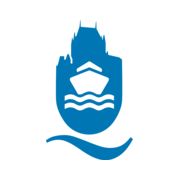
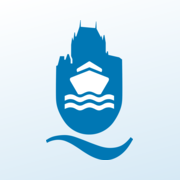
Update OG:image

diff --git a/app/app.vue b/app/app.vue
@@ -1,8 +1,10 @@
 <script setup lang="ts">
 const { t } = useI18n()
 
-const SITE_URL = 'https://mrleblanc101.github.io/maison-du-marin-quebec'
-const OG_IMAGE = `${SITE_URL}/images/og-image.jpg`
+const SITE_URL = import.meta.dev
+    ? useRequestURL().origin
+    : 'https://mrleblanc101.github.io/maison-du-marin-quebec'
+const OG_IMAGE = `${SITE_URL}/images/og-logo.jpg`
 
 // Auto-generated <html lang>, canonical link, and hreflang alternates for
 // every configured locale (fr at `/`, en at `/en`, per i18n.baseUrl above).
@@ -18,7 +20,8 @@ useSeoMeta({
     ogSiteName: () => t('seo.orgName'),
     ogImage: OG_IMAGE,
     ogImageWidth: 1200,
-    ogImageHeight: 800,
+    ogImageHeight: 630,
+    ogImageAlt: () => t('seo.ogImageAlt'),
     twitterCard: 'summary_large_image',
     twitterTitle: () => t('seo.title'),
     twitterDescription: () => t('seo.description'),
@@ -40,14 +43,16 @@ useHead({
         "seo": {
             "orgName": "La Maison du Marin Québec",
             "title": "La Maison du Marin Québec — Où se rassemblent les marins du monde entier.",
-            "description": "Au cœur des installations portuaires, la Maison du Marin est un lieu chaleureux conçu pour accueillir tous les marins en escale au Port de Québec."
+            "description": "Au cœur des installations portuaires, la Maison du Marin est un lieu chaleureux conçu pour accueillir tous les marins en escale au Port de Québec.",
+            "ogImageAlt": "Logo de la Maison du Marin Québec"
         }
     },
     "en": {
         "seo": {
             "orgName": "Québec Seamen's Club",
             "title": "Québec Seamen's Club — Where seafarers from around the world come together.",
-            "description": "At the heart of the port facilities, the Seamen's Club is a warm place built to welcome every sailor calling at the Port of Québec."
+            "description": "At the heart of the port facilities, the Seamen's Club is a warm place built to welcome every sailor calling at the Port of Québec.",
+            "ogImageAlt": "Québec Seamen's Club logo"
         }
     }
 }
